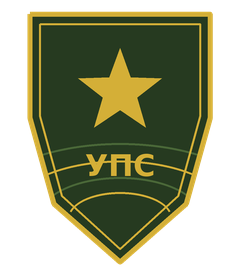
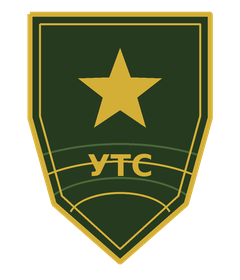
Переименование: УПС → УТС БЕРЕСТА (интерфейс, герб, package.json)

Changed region(s): [[0.35, 0.5429, 0.6417, 0.6286]]

diff --git a/index.html b/index.html
@@ -3,7 +3,7 @@
 <head>
 <meta charset="utf-8">
 <meta name="viewport" content="width=device-width, initial-scale=1">
-<title>УПС БЕРЕСТА — Учебная топографическая система</title>
+<title>УТС БЕРЕСТА — Учебная топографическая система</title>
 <link rel="stylesheet" href="css/style.css">
 </head>
 <body>
@@ -13,7 +13,7 @@
 
 <!-- ═══════════ Верхняя панель инструментов ═══════════ -->
 <div id="toolbar" class="panel">
-  <span id="brand">УПС БЕРЕСТА</span>
+  <span id="brand">УТС БЕРЕСТА</span>
   <span class="sep"></span>
   <button id="btnPan"    class="active" title="Режим обзора: панорамирование карты (ЛКМ/СКМ)">✋ Обзор</button>
   <button id="btnRuler"  title="Линейка: измерение расстояний ломаной линией">📏 Линейка</button>
@@ -96,7 +96,7 @@
 <div id="mainMenu">
   <div class="menu-card">
     <img id="menuEmblem" src="emblem.png" alt="Герб кафедры">
-    <div class="menu-title">УПС БЕРЕСТА</div>
+    <div class="menu-title">УТС БЕРЕСТА</div>
     <div class="menu-sub">Учебная топографическая система</div>
     <button id="btnStart" class="primary">Приступить к работе</button>
   </div>
@@ -105,7 +105,7 @@
 <!-- ═══════════ Окно справки / инструкции ═══════════ -->
 <div id="helpModal" class="hidden">
   <div class="help-card">
-    <div class="help-title">УПС БЕРЕСТА — инструкция по работе</div>
+    <div class="help-title">УТС БЕРЕСТА — инструкция по работе</div>
     <div class="help-body">
       <div class="help-sec">🗺 Навигация по карте</div>
       <div class="help-item">Колесо мыши — масштаб (зум идёт от курсора).</div>

diff --git a/css/style.css b/css/style.css
@@ -1,5 +1,5 @@
 /* ═══════════════════════════════════════════════════════════════
-   УПС БЕРЕСТА — стили в духе минималистичной ГИС:
+   УТС БЕРЕСТА — стили в духе минималистичной ГИС:
    карта на весь экран, поверх — полупрозрачные плавающие панели.
    ═══════════════════════════════════════════════════════════════ */
 

diff --git a/js/main.js b/js/main.js
@@ -674,7 +674,7 @@ function bindMarkerUI() {
   // Экспорт в JSON-файл
   $('btnExportMarkers').addEventListener('click', () => {
     const payload = {
-      app: 'ups-beresta', version: 1,
+      app: 'uts-beresta', version: 1,
       savedAt: new Date().toISOString(),
       metersPerSquare: App.cal.metersPerSquare,
       markers: App.markers.toJSON()

diff --git a/server.js b/server.js
@@ -50,5 +50,5 @@ const server = http.createServer((req, res) => {
 });
 
 server.listen(port, host, () => {
-  console.log(`УПС БЕРЕСТА dev-server: http://${host}:${port}/`);
+  console.log(`УТС БЕРЕСТА dev-server: http://${host}:${port}/`);
 });

diff --git a/make_emblem.py b/make_emblem.py
@@ -42,7 +42,7 @@ d.polygon(star(120 * S, 92 * S, 44 * S, 18 * S), fill=GOLD)
 import matplotlib
 font_path = matplotlib.get_data_path() + "/fonts/ttf/DejaVuSans-Bold.ttf"
 f = ImageFont.truetype(font_path, 30 * S)
-text = "УПС"
+text = "УТС"
 tw = d.textlength(text, font=f)
 d.text(((W * S - tw) / 2, 148 * S), text, font=f, fill=GOLD)
 

diff --git a/AGENTS.md b/AGENTS.md
@@ -1,7 +1,7 @@
 # AGENTS.md — правила работы агента в этом проекте
 
 ## Проект
-УПС БЕРЕСТА — Учебная топографическая система: веб-просмотрщик
+УТС БЕРЕСТА — Учебная топографическая система: веб-просмотрщик
 топографической карты листа У-57 (1:25 000).
 Чистый HTML5 Canvas + JavaScript, без зависимостей. Запуск: `npm run dev`.
 Карта: `Component 1.png`. Герб кафедры: `emblem.png` (сейчас заглушка,

diff --git a/README.md b/README.md
@@ -1,4 +1,4 @@
-# УПС БЕРЕСТА — Учебная топографическая система
+# УТС БЕРЕСТА — Учебная топографическая система
 
 Одностраничное веб-приложение для работы с растровой топокартой (лист У-57, 1:25 000).
 Карта `Component 1.png` загружается автоматически, километровая сетка привязана жёстко —
